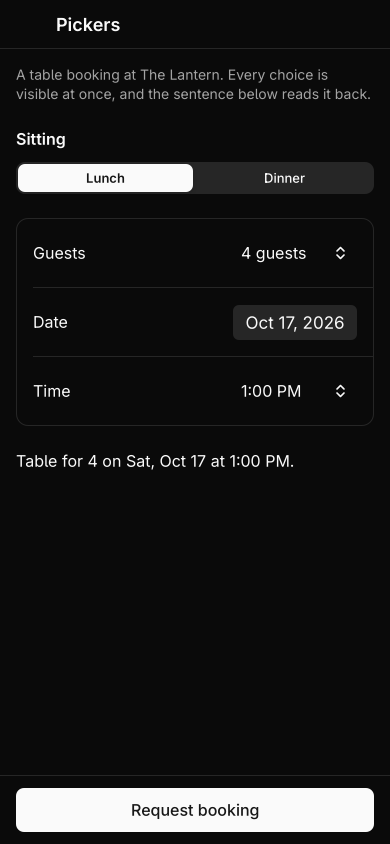
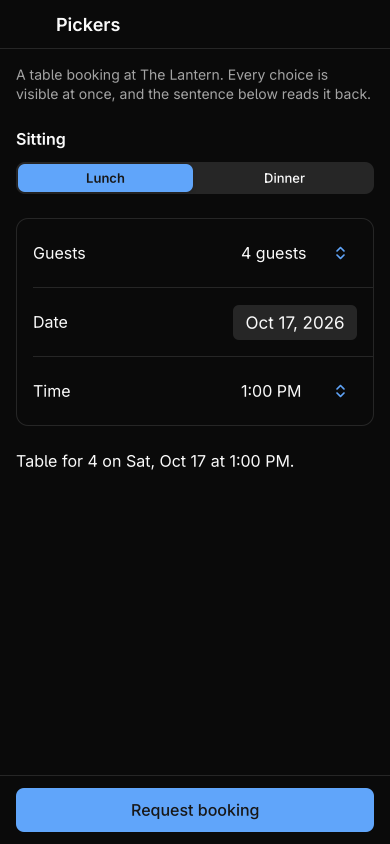
Linux: example screenshots with the example apps' accent
The iOS and Android example apps give the shell a blue primary through their
theme providers; the controls tests now run the examples with the same host
theme, so their screenshots compare with the other platforms'.

Changed region(s): [[0.0308, 0.9242, 0.9846, 0.9858], [0.0308, 0.1848, 0.4923, 0.2464], [0.8615, 0.2773, 0.8923, 0.3081]]

diff --git a/platforms/linux/tests/controls.rs b/platforms/linux/tests/controls.rs
@@ -278,9 +278,20 @@ fn screenshots(f: &Fixture, name: &str) {
     f.set_dark(false);
 }
 
+/// The accent the iOS and Android example apps give the shell through their
+/// theme providers, so example screenshots compare with theirs.
+fn example_runtime() -> native_shell_gtk::Runtime {
+    let tokens = |c: &str| std::iter::once(("primary".to_string(), c.to_string())).collect();
+    let theme = native_shell_gtk::ThemeConfig { light: tokens("#2563eb"), dark: tokens("#60a5fa") };
+    let runtime = native_shell_gtk::Runtime::new();
+    runtime.set_theme(Some(theme)).expect("theme");
+    runtime
+}
+
 fn settings_example() {
     gtk::Settings::default().expect("settings").set_gtk_enable_animations(false);
-    let f = Fixture::open_dir("../../examples/settings");
+    let dir = std::path::Path::new(env!("CARGO_MANIFEST_DIR")).join("../../examples/settings");
+    let f = Fixture::start_with(&example_runtime(), Default::default(), |i| i.load_dir(&dir));
     screenshots(&f, "settings");
     // Notifications are on by default, so is the daily summary and its time.
     f.expect("summary-time");
@@ -314,7 +325,7 @@ fn components_page(page: &str) -> Fixture {
         files.push((name, text));
     }
     let files: Vec<(&str, &str)> = files.iter().map(|(k, v)| (k.as_str(), v.as_str())).collect();
-    Fixture::with_files(&read("native-shell.json"), &files)
+    Fixture::with_runtime(&example_runtime(), &read("native-shell.json"), &files)
 }
 
 fn components_pages() {
@@ -336,6 +347,8 @@ fn components_pages() {
     drop(f);
 
     let f = components_page("pickers");
+    let b = f.bounds(&f.expect("request"));
+    assert_eq!(f.pixel((b.x() + 8.0) as i32, (b.y() + b.height() / 2.0) as i32), 0xff2563eb, "the example app's accent");
     let sitting = controls(&f, "sitting");
     tap(&f, &sitting[1]);
     let guests = control(&f, "guests");
